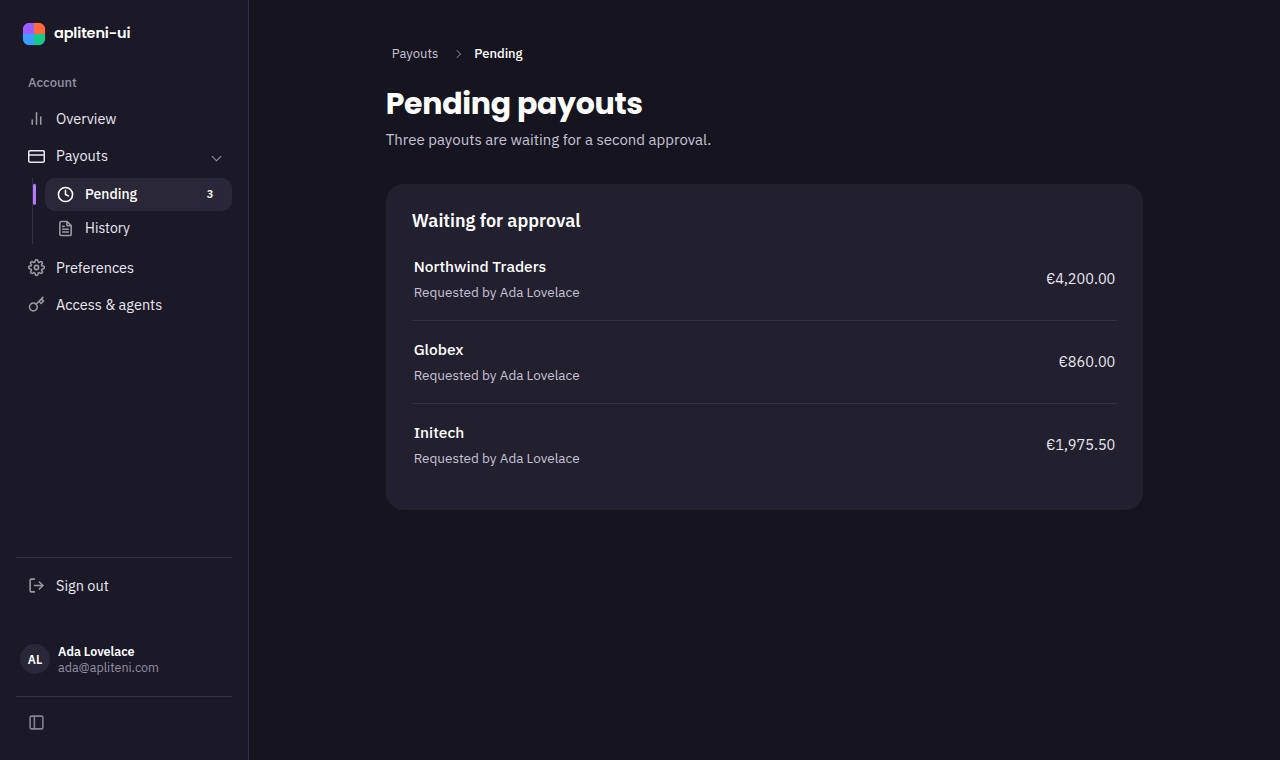
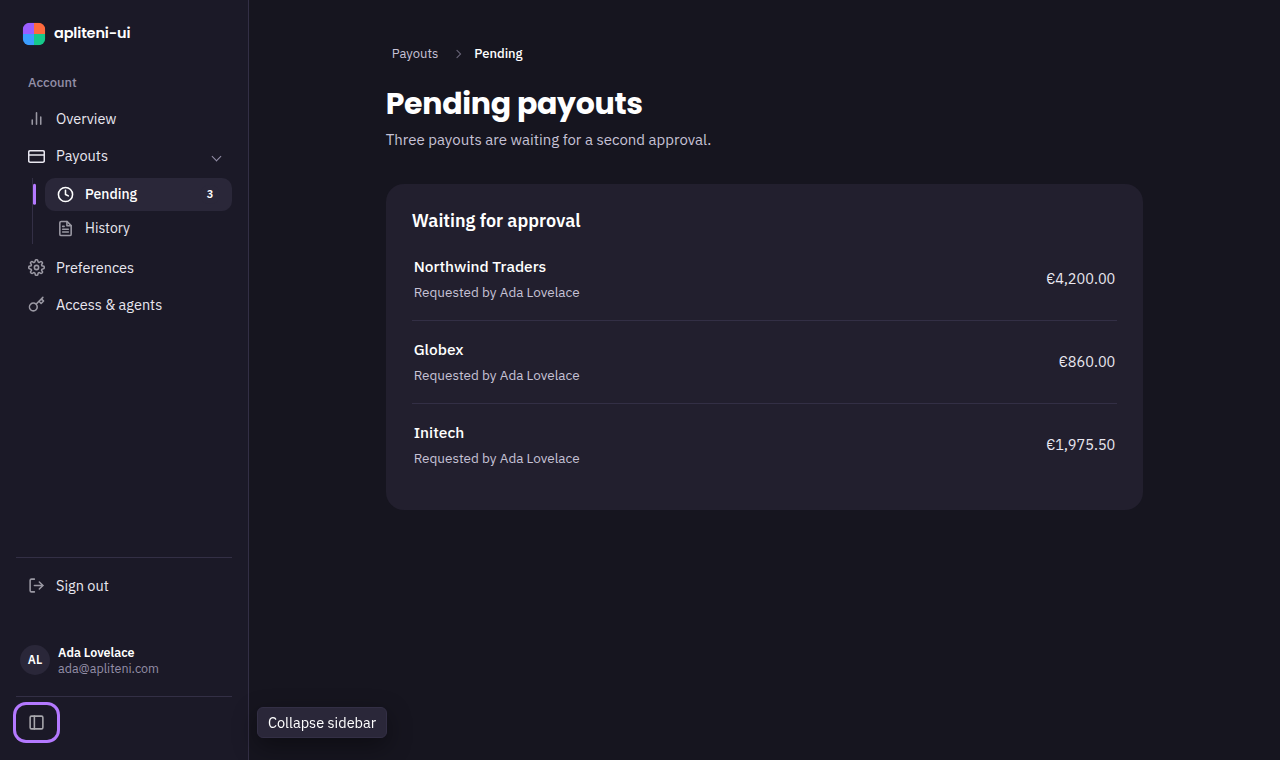
The toggle owes a name at both widths, because it is its mark at both
lessly-ui wraps RailToggle in a tooltip at both widths — "open, it is still
icon-only, so it owes the same" (app-sidebar.tsx:309-334). The port took the
mark and left that half behind: on a 249px rail the toggle was a 41x35.4
unlabelled square with nothing on hover, on focus or at rest.

The chip rule loses its .is-collapsed scope for .ui-app__fold alone — the one
row of the rail that is wordless at both widths — in both the fallback and the
anchored branch. Every other row keeps the fold-scoped rule it had.

Gated: shell-states.test.js resolves the toggle's label at both widths, under
the pointer and under the keyboard, and at rest. Re-scoping it back to
.is-collapsed goes 1 red. Measured in Chrome 152 off the branch's own
Storybook: the chip is 130.08 x 31.39 on an open rail, 8px clear of the rail's
edge, centred on the toggle within a hundredth of a pixel, on seven real Tab
presses and on hover, with and without anchor positioning.

rail-after-expanded-{dark,light}.png are re-shot on the same story, viewport
and browser as before — the resting pair reproduced byte-identically first —
with focus walked to the toggle so the ring and the chip are the browser's own.

Claude-Session: https://claude.ai/code/session_01TssZUi9jLcPmmbB9f7d6Xm

Changed region(s): [[0.1875, 0.9079, 0.3125, 0.9684], [0.0312, 0.8474, 0.125, 0.9079], [0.0, 0.9079, 0.0625, 0.9684]]

diff --git a/src/styles/layout.css b/src/styles/layout.css
@@ -194,13 +194,20 @@
    own width, holding the place its row gave it — right until the rail scrolls.
    The @supports block below takes the near edge from the rail and pins both ends
    to the row, and is the only placement that survives a scroll as well as the
-   clip. Why there is no third: docs/specification.md#the-page-shell. */
-:where(.ui-app.is-collapsed) .ui-app__rail .ui-nav__item:is(:hover, :focus-visible) > .ui-nav__label { position: fixed; left: calc(var(--ui-rail-w) + var(--space-2)); z-index: var(--z-dropdown); width: max-content; max-width: 15rem; margin-block: -7px; padding: 6px 10px; border: 1px solid var(--border); border-radius: var(--radius-xs); background: var(--surface-3); color: var(--strong); box-shadow: var(--shadow-md); opacity: 1; pointer-events: none; }
+   clip. Why there is no third: docs/specification.md#the-page-shell.
+   The toggle takes the chip at BOTH widths, unscoped — it is icon-only at both,
+   so it owes a name at both. That is the second selector of each pair below. */
+:where(.ui-app.is-collapsed) .ui-app__rail .ui-nav__item:is(:hover, :focus-visible) > .ui-nav__label,
+.ui-app__rail .ui-app__fold:is(:hover, :focus-visible) > .ui-nav__label { position: fixed; left: calc(var(--ui-rail-w) + var(--space-2)); z-index: var(--z-dropdown); width: max-content; max-width: 15rem; margin-block: -7px; padding: 6px 10px; border: 1px solid var(--border); border-radius: var(--radius-xs); background: var(--surface-3); color: var(--strong); box-shadow: var(--shadow-md); opacity: 1; pointer-events: none; }
 @supports (anchor-name: --a) and (anchor-scope: --a) {
-  .ui-app.is-collapsed { anchor-scope: --ui-rail; }
-  :where(.ui-app.is-collapsed) .ui-app__rail { anchor-name: --ui-rail; }
-  :where(.ui-app.is-collapsed) .ui-app__rail .ui-nav__item { anchor-name: --ui-rail-row; anchor-scope: --ui-rail-row; }
-  :where(.ui-app.is-collapsed) .ui-app__rail .ui-nav__item:is(:hover, :focus-visible) > .ui-nav__label { position-anchor: --ui-rail-row; left: calc(anchor(--ui-rail right) + var(--space-2)); top: anchor(top); bottom: anchor(bottom); align-self: center; margin-block: 0; }
+  .ui-app.is-collapsed,
+  .ui-app:has(.ui-app__fold) { anchor-scope: --ui-rail; }
+  :where(.ui-app.is-collapsed) .ui-app__rail,
+  .ui-app__rail:has(.ui-app__fold) { anchor-name: --ui-rail; }
+  :where(.ui-app.is-collapsed) .ui-app__rail .ui-nav__item,
+  .ui-app__rail .ui-app__fold { anchor-name: --ui-rail-row; anchor-scope: --ui-rail-row; }
+  :where(.ui-app.is-collapsed) .ui-app__rail .ui-nav__item:is(:hover, :focus-visible) > .ui-nav__label,
+  .ui-app__rail .ui-app__fold:is(:hover, :focus-visible) > .ui-nav__label { position-anchor: --ui-rail-row; left: calc(anchor(--ui-rail right) + var(--space-2)); top: anchor(top); bottom: anchor(bottom); align-self: center; margin-block: 0; }
 }
 
 /* The reading column centres in the track it is given — without width: 100% it

diff --git a/stories/apps/shell-states.test.js b/stories/apps/shell-states.test.js
@@ -533,7 +533,7 @@ test('a folded row\'s chip is placed twice: from the rail\'s width, and from the
 
 test('an open rail leaves its labels where they are, in both states', () => {
   const at = mount(PAIR(false));
-  const row = at.doc.querySelector('.ui-app__rail .ui-nav__item[aria-label]');
+  const row = at.doc.querySelector('.ui-app__rail .ui-nav__item[aria-label]:not(.ui-app__fold)');
   const label = row.querySelector('.ui-nav__label');
   for (const [state] of CHIP_STATES) {
     row.setAttribute('data-ui-state', state);
@@ -541,6 +541,33 @@ test('an open rail leaves its labels where they are, in both states', () => {
     row.removeAttribute('data-ui-state');
   }
   assert.equal(at.of(label, 'opacity'), '1', 'an open rail fades its own labels');
+});
+
+// The one row of the rail that is icon-only at BOTH widths, so it is the one
+// whose chip is not scoped to the fold. why: docs/specification.md#the-page-shell
+test('the toggle carries a name at both widths, because it is wordless at both', () => {
+  for (const [rail, at] of [['an open', mount(PAIR(false))], ['a folded', mount(PAIR(true))]]) {
+    const btn = at.q('.ui-app__fold');
+    const label = btn.querySelector('.ui-nav__label');
+    assert.equal(
+      at.of(label, 'position'), 'static',
+      `${rail} rail draws the toggle's chip with nothing pointing at it`,
+    );
+    for (const [state, who] of CHIP_STATES) {
+      btn.setAttribute('data-ui-state', state);
+      assert.equal(
+        at.of(label, 'position'), 'fixed',
+        `${rail} rail leaves the toggle's name in the flow for ${who}, where the glyph column is the `
+        + 'whole of the control and `overflow: hidden` squeezes it to nothing. The toggle is its mark '
+        + 'at both widths, so it owes the chip at both — the rule cannot be scoped to .is-collapsed.',
+      );
+      assert.equal(
+        at.of(label, 'opacity'), '1',
+        `${rail} rail hands ${who} a chip that is faded out`,
+      );
+      btn.removeAttribute('data-ui-state');
+    }
+  }
 });
 
 test('the fold toggle is drawn wherever there is a fold to choose, and only there', () => {

diff --git a/stories/guidelines/_layout-and-density.js b/stories/guidelines/_layout-and-density.js
@@ -104,7 +104,7 @@ export const RULES = [
       + 'beside it. A shell whose main column is --container has no sidebar. Reconciling the two '
       + 'as if they competed is what made nine widths look like one disagreement.',
     kit: [
-      { ref: 'src/styles/layout.css:215', pattern: 'var(--ui-app-main, var(--measure))' },
+      { ref: 'src/styles/layout.css:222', pattern: 'var(--ui-app-main, var(--measure))' },
       { ref: 'src/tokens/tokens.css:43', pattern: '--measure: 860px' },
     ],
   },
@@ -185,7 +185,7 @@ export const RULES = [
       + 'box; the numbers match today and neither follows the other, so a comment claiming a link '
       + 'that does not exist would cost a reader more than the silence does.',
     kit: [
-      { ref: 'src/styles/layout.css:259', pattern: '@media (max-width: 720px)' },
+      { ref: 'src/styles/layout.css:266', pattern: '@media (max-width: 720px)' },
       { ref: 'stories/breakpoints.test.js:117', pattern: 'every breakpoint is one of the documented steps' },
       { ref: 'stories/breakpoints.test.js:139', pattern: 'every documented step is a step something queries' },
     ],

diff --git a/stories/guidelines/_labels-and-titles.js b/stories/guidelines/_labels-and-titles.js
@@ -56,7 +56,7 @@ export const RULES = [
     doHtml: rankDo,
     dontHtml: rankDont,
     kit: [
-      { ref: 'src/styles/layout.css:224', pattern: 'rank: page-title' },
+      { ref: 'src/styles/layout.css:231', pattern: 'rank: page-title' },
       { ref: 'src/styles/card.css:64', pattern: 'rank: card-title' },
     ],
   },

diff --git a/PR.md b/PR.md
@@ -168,8 +168,12 @@ anchored rule must pin `top`, `bottom` and `left` to `anchor()`, in both copies 
   closed rail is derived from — so it holds that column at both widths while the rail travels past
   it. The seam crosses the frame on the press, on the rail's own `--dur-med`, and its distance is
   the frame's mirror rather than a number: drawn at 9 in an 18-unit frame, it lands at 15. The name
-  is still in the markup, because the name IS the chip — a folded rail hands the toggle the same one
-  every other row gets, instead of a tooltip written for this one control.
+  is still in the markup, because the name IS the chip — the rail hands the toggle the same one
+  every other row gets, instead of a tooltip written for this one control. It gets it at **both**
+  widths, not on the fold alone: every other row reads its own name on an open rail, and the toggle
+  is the one row that is its mark at both, so its chip rule carries no `.is-collapsed` scope. That
+  is the reference's own arrangement — `app-sidebar.tsx` wraps `RailToggle` in a tooltip at both
+  widths, and only the offset varies with the fold.
 - **`sidebarNav({ collapsed })`.** A group is no longer forced shut, its list is no longer hidden
   by CSS, and a row with no glyph gets the fold's dot.
 
@@ -180,7 +184,9 @@ and after is this branch; each side is rendered by its own tree's factories and 
 stylesheets, off two static servers, so only the code under test differs.
 
 **The rail on a desktop.** Before: no way to fold it. After: the toggle at the foot, under its own
-rule.
+rule, reached by real Tab presses so the focus ring and the name chip are the browser's own and not
+a state forced on. The chip is 130.1 × 31.4, 8px clear of the rail's edge, and centred on the
+toggle within eight thousandths of a pixel.
 
 | | Before | After |
 |---|---|---|
@@ -272,6 +278,18 @@ after the page scrolls 200      -0.01        8       0      -0.01        8
 hover, no keyboard              -0.01        8       0      -0.01        8
 ```
 
+**The toggle's own chip, at both widths**, same run and same two branches. It is the one row that
+is icon-only on an open rail as well, so its chip rule carries no `.is-collapsed` scope:
+
+```
+                                          chip box       dY     gap
+open rail,   7 Tabs / hover           130.08 x 31.39   -0.01       8
+folded rail, 7 Tabs / hover           122.56 x 31.39   -0.01       8
+```
+
+The two boxes differ by the words alone — *Collapse sidebar* against *Expand sidebar*. Before this,
+the open rail's toggle was a 41 × 35.4 square with no name on hover, on focus or at rest.
+
 The fallback is exact everywhere the rail has not scrolled, and off by exactly the scroll where it
 has. That is the one line in this table that anchor positioning buys, and it is why the `@supports`
 branch exists.
@@ -347,6 +365,7 @@ was run for real, and the file was restored and its SHA-256 compared with the on
 | the seam drawn on the frame's centre, so its mirror is no travel at all | `shell-states.test.js` | **1 red** |
 | the control given the whole row back, so its mark steps sideways on the press | `shell-states.test.js` | **1 red** |
 | the column written as the literal `41px` rather than `--ui-nav-strip` | `shell-states.test.js` | **1 red** |
+| **the toggle's chip re-scoped to `.is-collapsed`, so an open rail's is nameless again** | `shell-states.test.js` | **1 red** |
 
 One mutation is reported as **0 red** and is not a hole: filling the mark
 (`fill="none"` → `fill="currentColor"`) changes nothing a reader sees, because

diff --git a/docs/specification.md b/docs/specification.md
@@ -658,8 +658,11 @@ What the shell guarantees:
 - **The toggle is one mark, and the mark is the state.** The control is a frame that holds still
   and a seam that crosses it — `lessly-ui`'s `RailToggle`, which this rail is reworked on — so what
   a reader takes from it is which arrangement the panel is in rather than a direction to press. No
-  words beside it and no tooltip of its own: on a folded rail it takes the same name chip every
-  other row takes. The mark is drawn by hand in `src/components/shell.js` rather than added to
+  words beside it and no tooltip of its own: it takes the same name chip every other row takes on a
+  folded rail, and it takes that chip on an open rail too. Every other row reads its own name on an
+  open rail; the toggle is the one row that is its mark at both widths, so it is the one row whose
+  chip is not scoped to the fold — on hover and on keyboard focus, at both widths, the label leaves
+  the flow and lands beside the rail. The mark is drawn by hand in `src/components/shell.js` rather than added to
   `icons.js`, because a seam that travels has to be a child a stylesheet can reach and `icon()`
   emits one opaque string. It stands in the glyph column — `--ui-nav-strip`, a row's padding either
   side of a glyph, which is the width the closed rail is derived from — so it holds its place at
@@ -669,7 +672,8 @@ What the shell guarantees:
   frame and lands at 15, so the narrow compartment changes sides.
   `stories/apps/shell-states.test.js` reads the frame and the seam out of the factory and refuses a
   travel the mark does not explain, a control wider or narrower than the column, and a seam that
-  holds still between the two states.
+  holds still between the two states. The same file resolves the toggle's chip at both widths, under
+  the pointer and under the keyboard, so the rule cannot be scoped back to the fold.
 - **The fold travels, and no glyph moves while it does.** The rail's column keeps its open width
   and the box closes over it, so nothing inside is laid out a second way: the width goes from
   249px to 74px on `--dur-med` and `--ease`, and the words fade on `--dur-fast` so the closing edge

diff --git a/CONTRIBUTING.md b/CONTRIBUTING.md
@@ -1600,7 +1600,7 @@ cannot hide another regression. See [coverage ledgers](#a-gate-carries-a-ledger-
 
 Two repaired subjects use `text-align: left`, following #251 and 0.25.1's dropdown reset at
 src/styles/nav.css:52 `.ui-nav__item {`. The recorded direction audit found one logical
-property, the symmetric src/styles/layout.css:216 `margin-inline: auto`, against 25 physical left/right
+property, the symmetric src/styles/layout.css:223 `margin-inline: auto`, against 25 physical left/right
 margin and padding declarations; no `dir=`, `[dir="rtl"]` or `:dir(`; and only physical
 text alignment. Vertical writing is a [non-goal](docs/specification.md#what-the-kit-does-not-do)
 held by the icon gate. RTL support would require revisiting these five declarations together.
